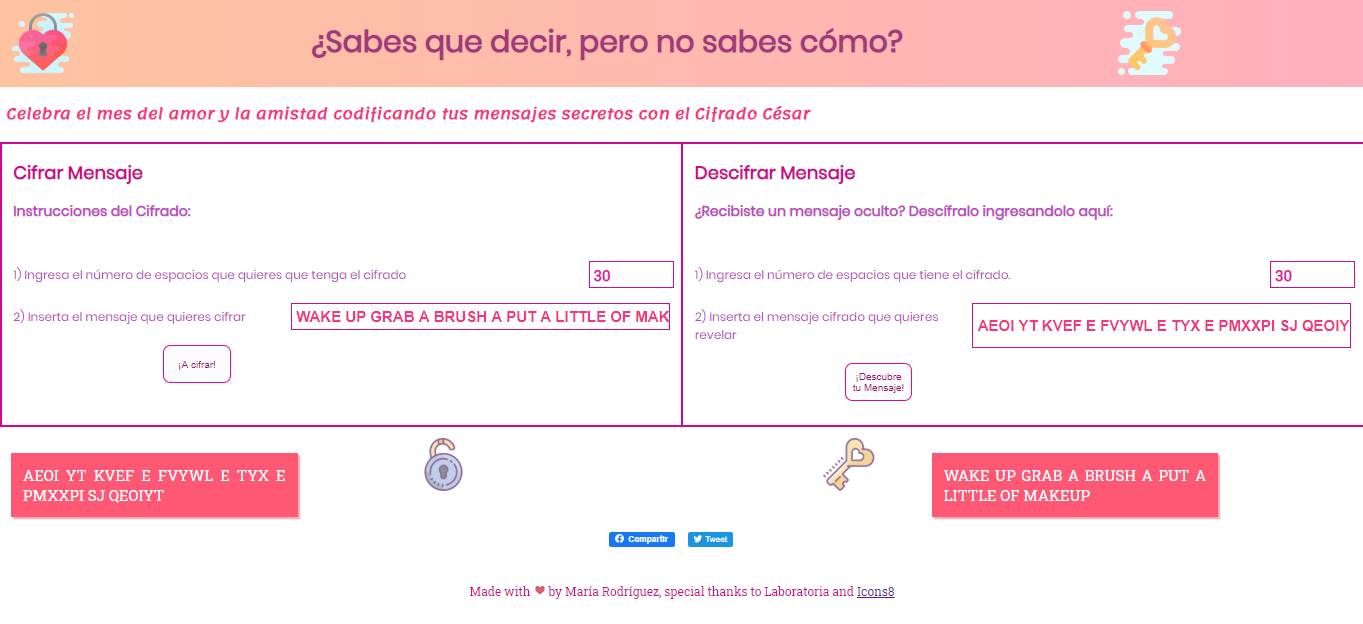
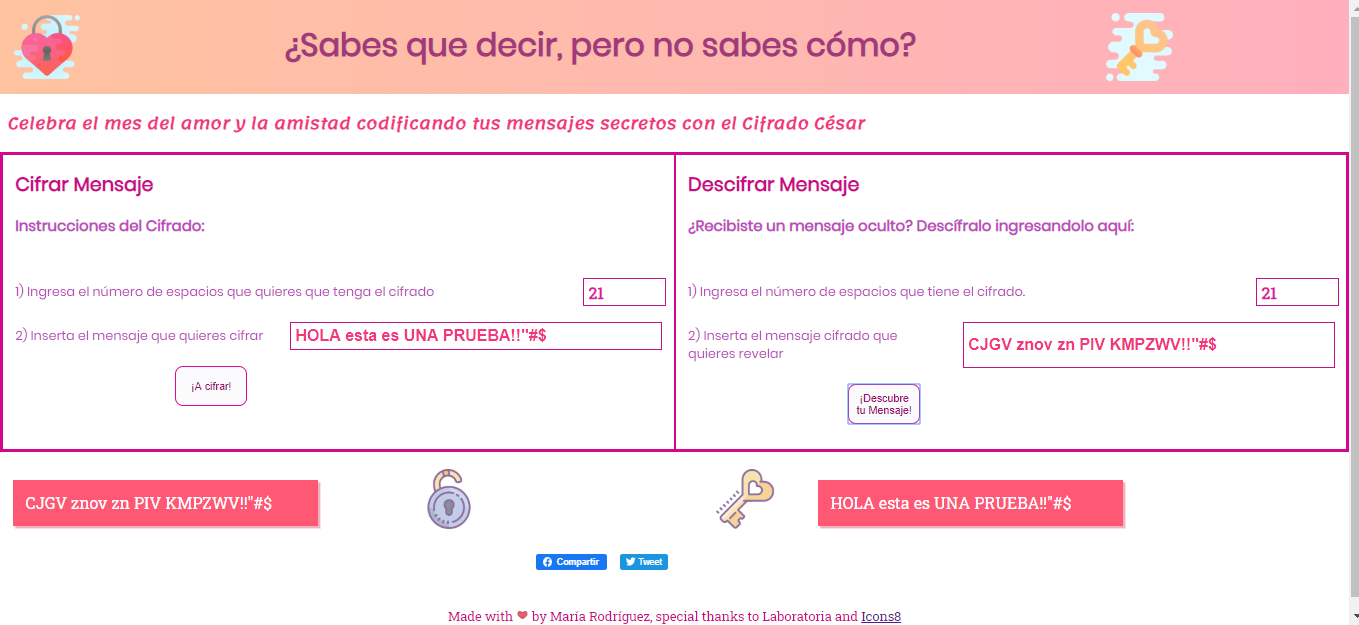
modifiqué el readme

Changed region(s): [[0.0, 0.0, 1.0, 0.9744], [0.2163, 0.0304, 0.6799, 0.0913], [0.3091, 0.9439, 0.6799, 1.0]]

diff --git a/src/cipher.js b/src/cipher.js
@@ -5,17 +5,12 @@ const encode = (n, text) => {
   for (let index = 0; index < text.length; index++) {
     let charCode = text.charCodeAt(index);
     if (charCode >= 65 && charCode <= 90) {
-      //mayusculas (funciona)
+      //mayusculas
       cipherFormula = ((charCode - 65 + n) % 26) + 65;
       let newChar = String.fromCharCode(cipherFormula);
       myStringCipher += newChar;
-    } else if (charCode >= 164 && charCode <= 165) {
-      //Ñ y ñ (no funciona)
-      cipherFormula = ((charCode - 164 + n) % 26) + 164;
-      let newChar = String.fromCharCode(cipherFormula);
-      myStringCipher += newChar;
     } else if (charCode >= 97 && charCode <= 122) {
-      //minusculas (funciona)
+      //minusculas
       cipherFormula = ((charCode - 97 + n) % 26) + 97;
       let newChar = String.fromCharCode(cipherFormula);
       myStringCipher += newChar;
@@ -23,20 +18,17 @@ const encode = (n, text) => {
       (charCode >= 32 && charCode <= 47) ||
       (charCode >= 58 && charCode <= 64)
     ) {
-      //caracteres especiales (funciona)
+      //caracteres especiales
       let newChar = String.fromCharCode(charCode);
       myStringCipher += newChar;
     }
+    //typeError
   }
   try {
     if (n == " ") throw error;
     if (n == "0" && text == "0") throw error;
     if (n == null) throw error;
     if (encode == 0) throw error;
-    /* expect(() => cipher.encode()).toThrow(TypeError);
-           expect(() => cipher.encode(0)).toThrow(TypeError);
-           expect(() => cipher.encode(null, [])).toThrow(TypeError);
-           expect(() => cipher.encode(0, 0)).toThrow(TypeError);*/
   } catch (error) {
     throw new error();
   }
@@ -50,27 +42,26 @@ const decode = (n, text) => {
   let error = TypeError;
   for (let index = 0; index < text.length; index++) {
     let charCode = text.charCodeAt(index);
+    //mayusculas
     if (charCode >= 65 && charCode <= 90) {
       decodeFormula = ((charCode - 13 - n) % 26) + 65;
       let newChar = String.fromCharCode(decodeFormula);
       myDecode += newChar;
+      //minusculas
     } else if (charCode >= 97 && charCode <= 122) {
       decodeFormula = ((charCode - 45 - n) % 26) + 97;
       let newChar = String.fromCharCode(decodeFormula);
       myDecode += newChar;
+      //caracteres especiales
     } else if (
       (charCode >= 32 && charCode <= 47) ||
       (charCode >= 58 && charCode <= 64)
     ) {
-      //caracteres especiales
       let newChar = String.fromCharCode(charCode);
-      myDecode += newChar;
-    } else if (charCode === 164) {
-      decodeFormula = ((charCode - 164 - n) % 26) + 164;
-      let newChar = String.fromCharCode(decodeFormula);
       myDecode += newChar;
     }
   }
+  //typeError
   try {
     if (text == null) throw error;
     if (text == "0") throw error;

diff --git a/README.md b/README.md
@@ -6,7 +6,9 @@ feedback recibido: <br>
 -Al primer prototipo le faltaba el valor "offset" (coach) <br>
 -Cambiar el orden del input y las instrucciones (coach) <br>
 -Adaptar el diseño a la web (compañera) <br>
--Investigar sobre propiedades flex wrap y minmax para adaptar la página. (compañera) <br>
+-Investigar sobre propiedades flex wrap y minmax para adaptar la página.(compañera) <br>
+-Usar throw new error en vez de return error (coach) <br>
+-Modificar el Try que estaba envolviendo mis funciones y colocar condicionales para los casos de error en el test(coach)<br>
 
 Prototipo de baja fidelidad hecho en papel <br>
 
@@ -15,10 +17,6 @@ Prototipo de baja fidelidad hecho en papel <br>
 Prototipo hecho en inVision <br>
 
 ![caeser-cipher](https://luzcry.github.io/LIM012-cipher/src/iconos/prototipo2.png)
-
-Imagen final del proyecto <br>
-
-![caeser-cipher](https://luzcry.github.io/LIM012-cipher/src/iconos/FINAL.png)
 
 Sprint CheckOut: <br>
 En el primer sprint hice un prototipo en invision que traduje en HTML usando selectores de CSS. En mi index.js coloqué la funcionalidad de los botones y definí que elementos irian en la ventana de resultados. En cipher.js definí las constantes encode y decode, consta de las variables que las componen (encode: myStringCipher, cipherFormula, newChar; decode: myDecode, decodeFormula, newChar), un bucle for para recorrer el arreglo, una variable para captar el codigo ASCII, aplicarle una formula, devolver el número del caracter cifrado para insertar todo en la variable de resultados. Al momento funciona un cifrado en letras mayúsculas y una condicional if que reconoce si el usuario coloca espacios en el texto.
@@ -36,3 +34,11 @@ Investigación UX: <br>
 Explicar quiénes son los usuarios y los objetivos en relación con el producto. <br>
 Explicar cómo el producto soluciona los problemas/necesidades de dichos usuarios. <br>
 Los usuarios son personas de 12 años en adelante, que se interesan en tener conocimientos de cultura general mediante la lectura de artículos en una revista digital que fomenta la ciencia entre los mas jóvenes, con motivo del mes del amor y la amistad esta revista quería implementar en su web un juego que les mostrara de manera didáctica uno de los cifrados mas sencillos y antiguos y que, por medio de los botones de compartir, se pudiera captar nuevos lectores del contenido de la pagina.
+
+Imagen final del proyecto <br>
+
+![caeser-cipher](https://luzcry.github.io/LIM012-cipher/src/iconos/FINAL.png) <br>
+
+Test realizados el 21/02/2020 <br>
+![caeser-cipher](https://luzcry.github.io/LIM012-cipher/src/iconos/wii1.png) <br>
+![caeser-cipher](https://luzcry.github.io/LIM012-cipher/src/iconos/wii2.png)
